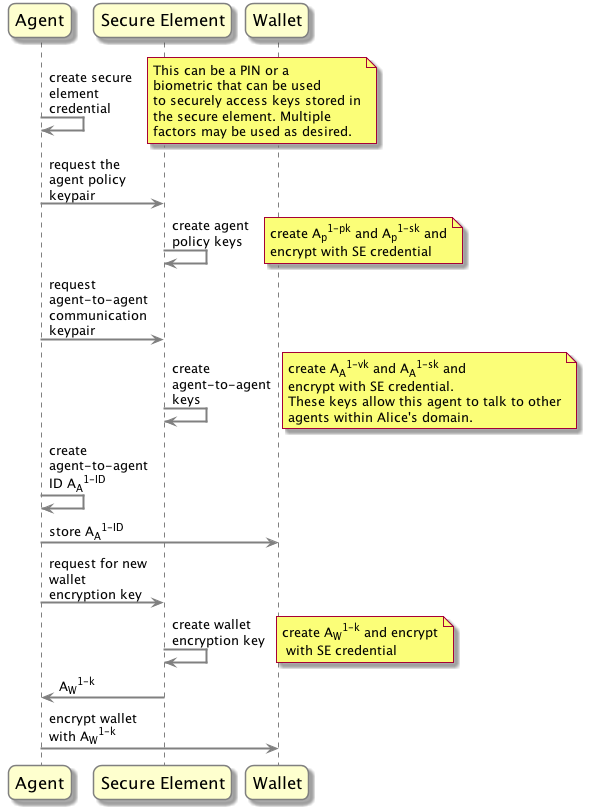
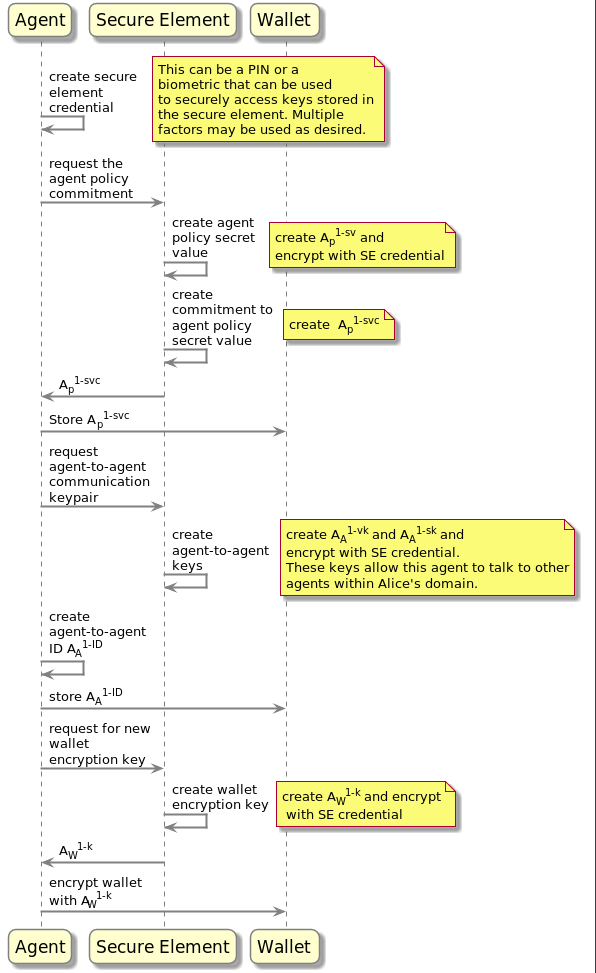
updated puml and images related to authorization policy

Changed region(s): [[0.0, 0.0, 1.0, 1.0]]

diff --git a/text/dkms/dkms-v4.md b/text/dkms/dkms-v4.md
@@ -550,12 +550,16 @@ Table 1 is a glossary of the DKMS key names and types used in these diagrams.
     <td>Description</td>
   </tr>
   <tr>
-    <td>A<sub>p</sub><sup>x-pk</sup></td>
-    <td>Agent Policy Public Key for agent x</td>
+    <td>A<sub>p</sub><sup>x-sv</sup></td>
+    <td>Agent Policy Secret Value for agent x</td>
   </tr>
   <tr>
-    <td>A<sub>p</sub><sup>x-sk</sup></td>
-    <td>Agent Policy Private (Secret) Key for agent x</td>
+    <td>A<sub>p</sub><sup>x-svc</sup></td>
+    <td>Agent Policy Secret Value Commitment for agent x</td>
+  </tr>
+  <tr>
+    <td>A<sub>p</sub><sup>x-ac</sup></td>
+    <td>Agent Policy Address Commitment for agent x</td>
   </tr>
   <tr>
     <td>A<sub>A</sub><sup>x-ID</sup></td>
@@ -770,7 +774,7 @@ To some extent these can be addressed if the edge agent periodically reminds the
 
 The secret to implementing social recovery in DKMS is using DKMS agents to automate the process of securely storing, sharing, and recovering encrypted backups of DKMS wallets with several of the identity owner’s connections. In DKMS architecture, these connections are currently called trustees. (Note: this is a placeholder term pending further usability research on the best name for this new role.)
 
-![image alt text](../005-dkms/images/14-add-recovery-buddy.png)
+![image alt text](../005-dkms/images/14-add-recovery-trustee.png)
 
 Trustees are selected by the identity owner based on the owner’s trust. For each trustee, the edge agent requests the cloud agent to create a trustee invitation. The cloud agent generates and registers with the agency a unique URL that will be used only for this purpose. The edge agent then creates a recovery data share (defined in 10.13) and shards it as defined by the identity owner’s recovery policy.
 
